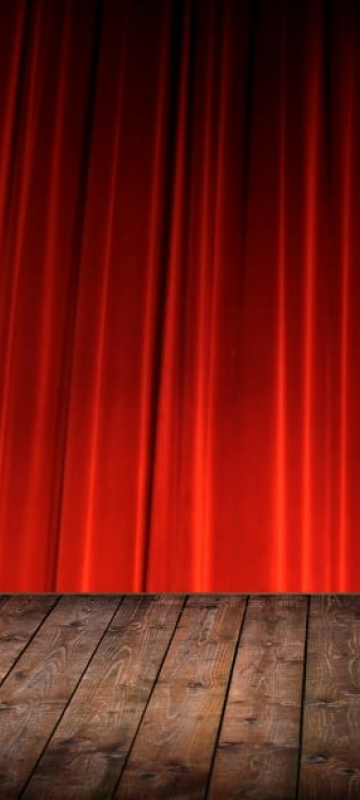
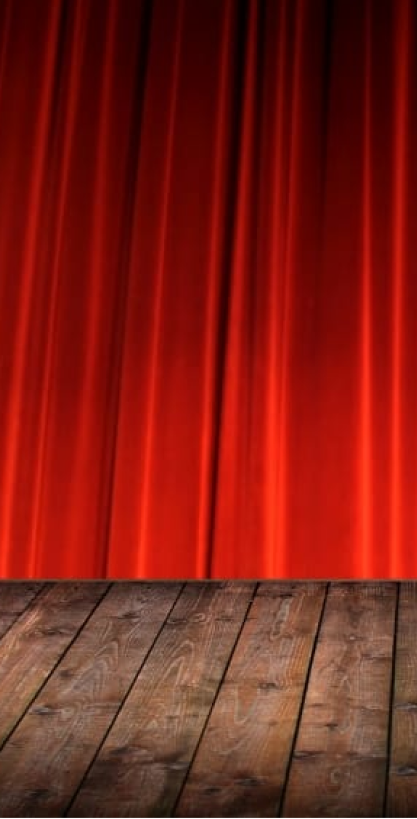
[UP]
version finale de la page d'accueil.

diff --git a/CSS/accueil.css b/CSS/accueil.css
@@ -10,6 +10,8 @@ html{
     width: 100vw;
     height: 100vh;
     background-image: url(../Assets/Media/background_home_phone.png);
+    background-repeat: no-repeat;
+    background-size: cover;
 }
 a{
     cursor: pointer;
@@ -34,11 +36,14 @@ header a img{
     grid-area: 1 / 3 / 1 / 3;
     align-self: center;
 }
+header{
+    height: 5%;
+}
 main{
     display: flex;
     justify-content: center;
     align-items: center;
-    height: 59%;
+    height: 68%;
 }
 main div{
     display: flex;
@@ -48,8 +53,6 @@ main div{
     width: 80%;
     font-size: 1rem;
     background: rgba(255, 255, 255, 0.3);
-    box-shadow: 5px 5px 10px rgba(0, 0, 0, 0.25);
-    border-radius: 10px;
     padding: 5%;
 }
 main div p{
@@ -65,17 +68,16 @@ footer{
     background: rgba(255, 255, 255, 0.3);
     box-shadow: 5px 5px 10px rgba(0, 0, 0, 0.25);
     width: 100%;
-    height: 25%;
+    box-sizing: border-box;
+    height: 27%;
     
 }
 footer div{
     display: flex;
     justify-content: space-around;
-    padding: 1%;
 }
 .copy{
     text-align: center;
-    height: 10%;
 }
 .samir, .samir div, .adrien, .adrien div, .moustapha, .moustapha div{
     display: flex;
@@ -97,7 +99,9 @@ footer div{
     }
     .container{
         background-image: url(../Assets/Media/background_home_tablet.png);
-        height: 142vh;
+    }
+    header{
+        height: 18%;
     }
     main{
         height: 63%;
@@ -113,6 +117,73 @@ footer div{
         width: 100%;
     }
     footer{
-        height: 16.5%;
+        height: 19%;
+    }
+    .github{
+        font-size: 3rem;
+        color: #181818;
+    }
+    .linkedin{
+        font-size: 3rem;
+        color: #13385A;
+    }
+}
+
+@media screen and (min-width: 1024px) {
+    html{
+        font-size: 22px;
+    }
+    .logo{
+        width: 20%;
+    }
+    header a img{
+        width: 30%;
+    }
+    header{
+        height: 15%;
+    }
+    .container{
+        background-image: url(../Assets/Media/background_home_desktop.png);
+    }
+    .play, .rules{
+        justify-self: center;
+        width: 30%;
+    }
+    .play img, .rules img{
+        width: 100%;
+    }
+    main{
+        height: 63%;
+    }
+    main div{
+        width: 40%;
+        padding: 1%;
+        border-radius: 2%;
+    }
+    main div p{
+        width: 100%;
+    }
+    .samir, .adrien, .moustapha{
+        width: 10%;
+        background: rgba(255, 255, 255, 0.3);
+    }
+    .samir div, .adrien div, .moustapha div{
+        flex-direction: row;
+        width: 100%;
+    }
+    footer{
+        height: 15%;
+        background: none;
+    }
+    .github{
+        font-size: 2rem;
+        color: #181818;
+    }
+    .linkedin{
+        font-size: 2rem;
+        color: #13385A;
+    }
+    .copy{
+        background: rgba(255, 255, 255, 0.3);
     }
 }

diff --git a/HTML/accueil.html b/HTML/accueil.html
@@ -27,9 +27,9 @@
 
                 <img class="logo" src="../Assets/Media/Logo_vintage.png" alt="Logo de notre projet">
 
-                <a class="play"><img src="../Assets/Media/Play.png" alt=""></a>
+                <a class="play" href="#play.html"><img src="../Assets/Media/Play.png" alt=""></a>
 
-                <a class="rules"><img src="../Assets/Media/Rules.png" alt=""></a>
+                <a class="rules" href="#rules.html"><img src="../Assets/Media/Rules.png" alt=""></a>
             
             </div>
 
